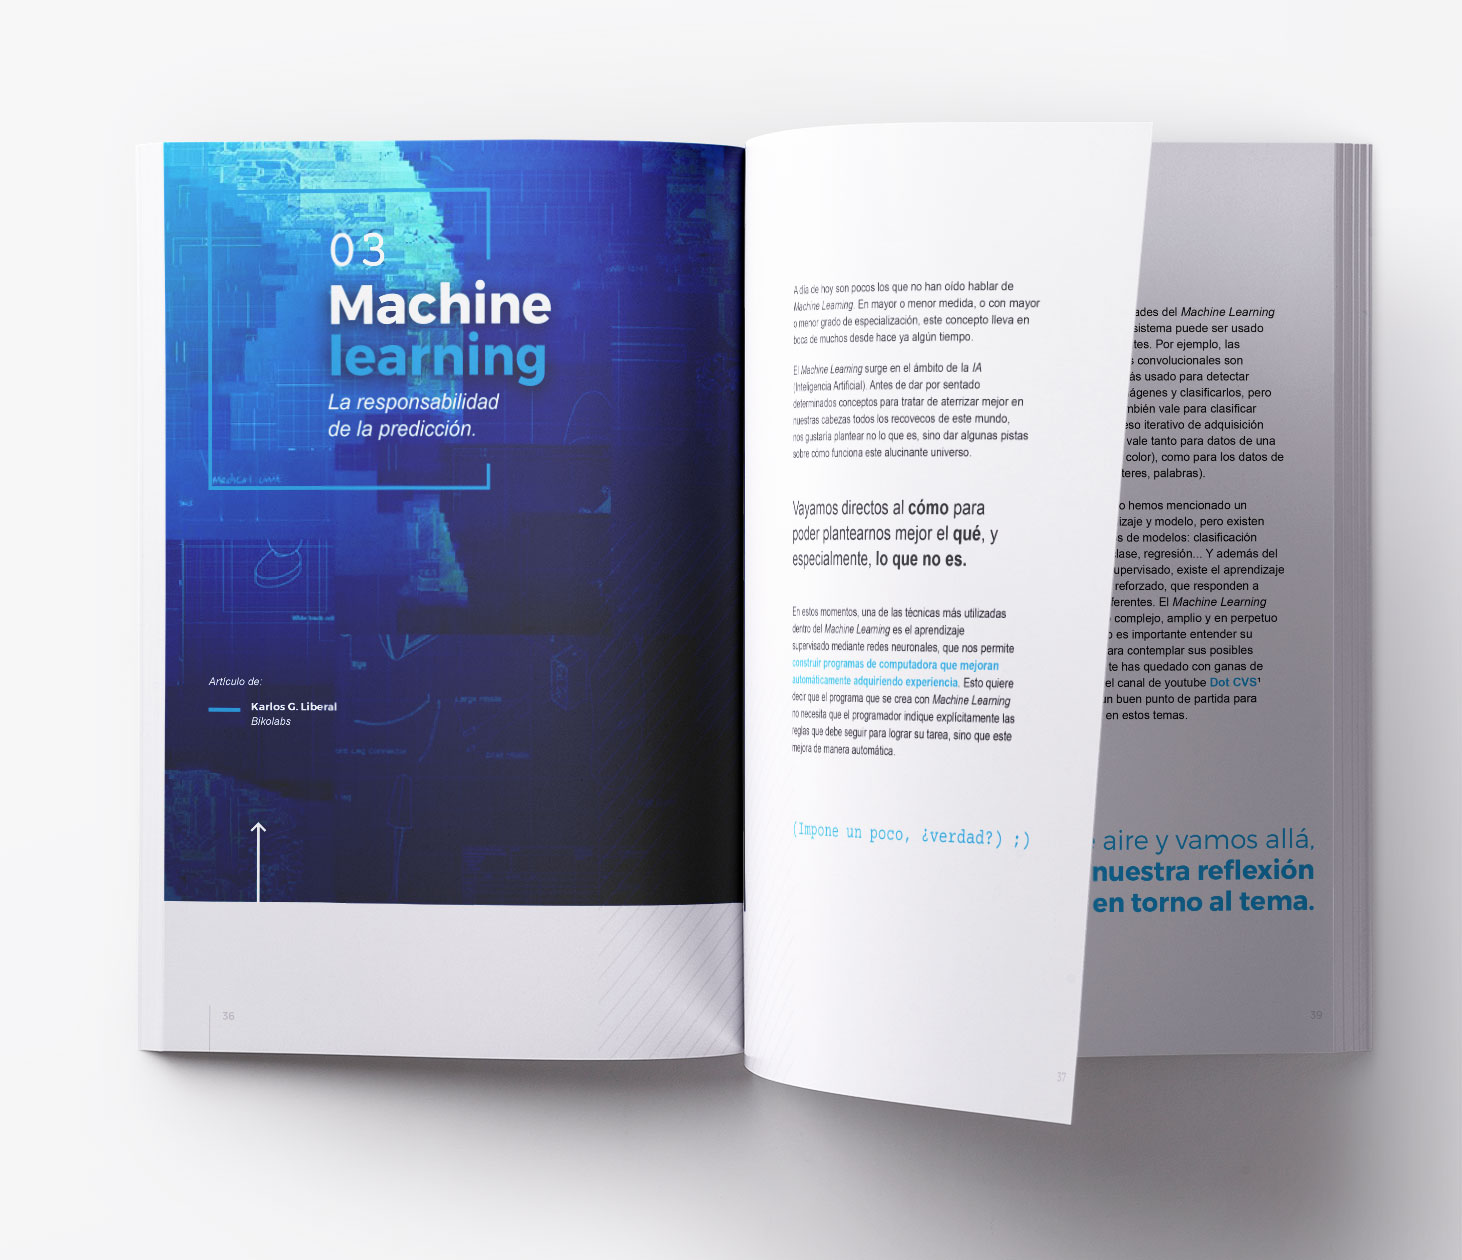
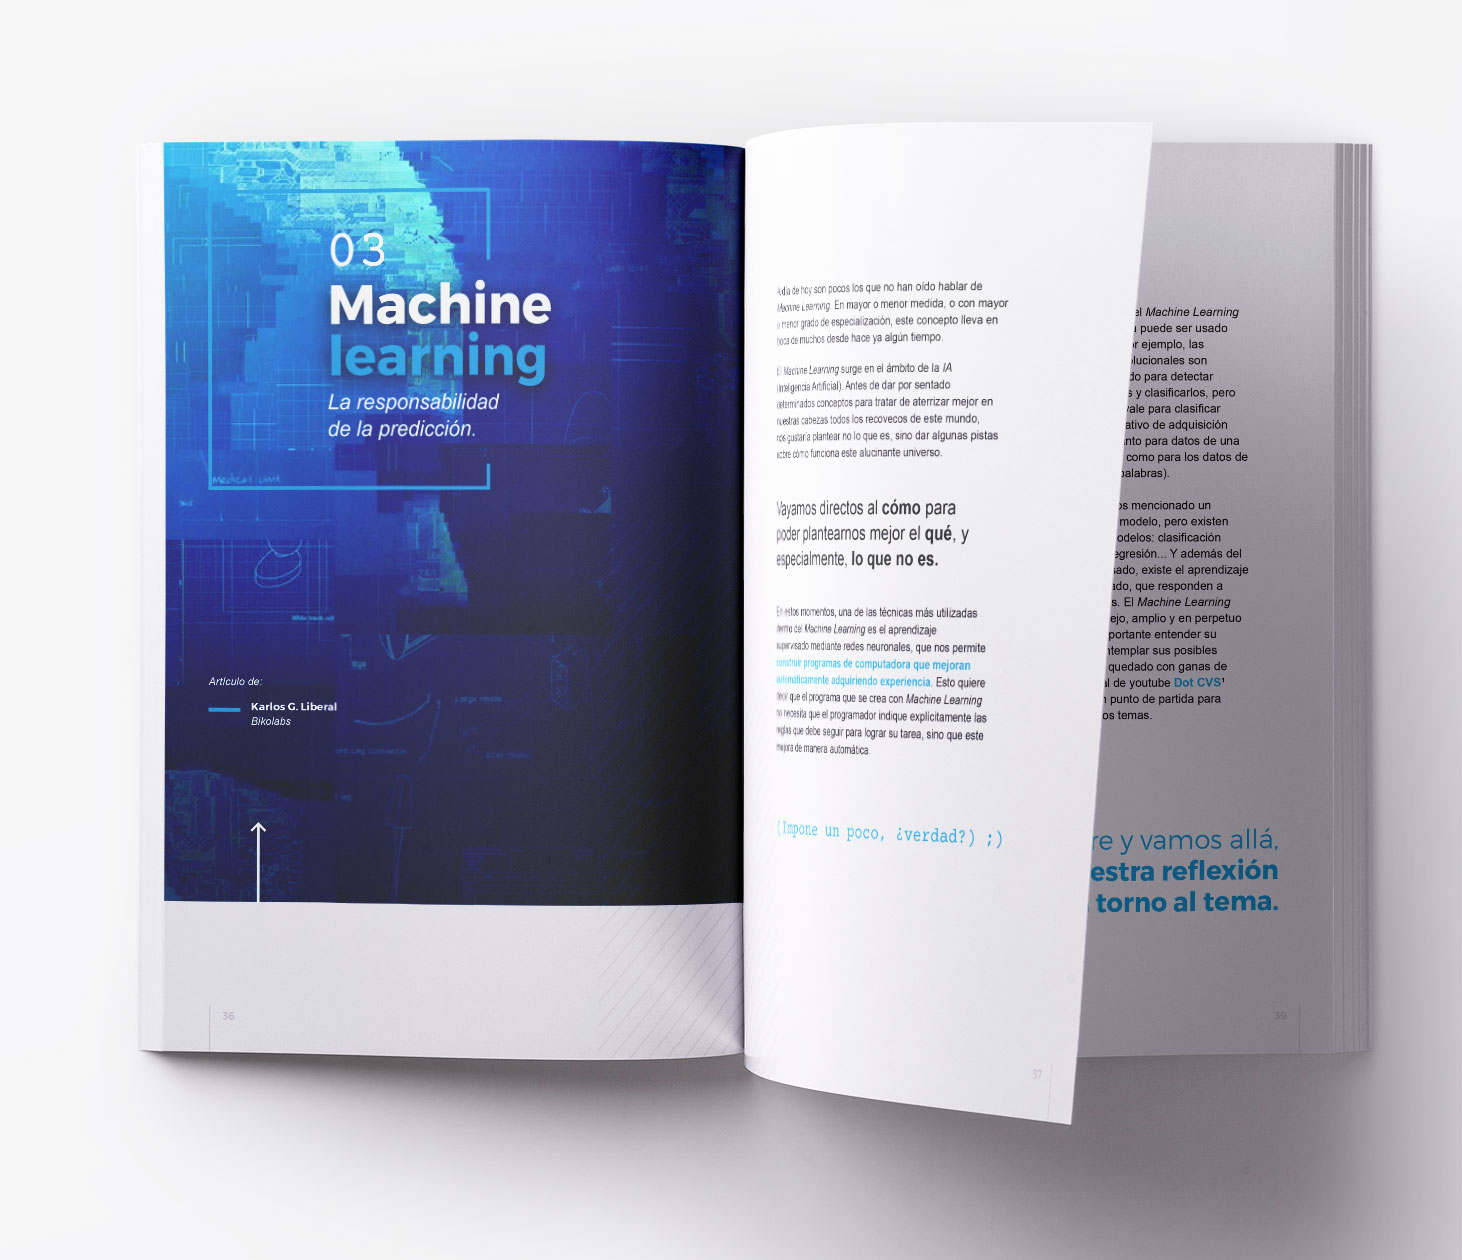
imagen y ajustes en tamaño de texto

diff --git a/src/assets/scss/07_pages/_pages.insight.scss b/src/assets/scss/07_pages/_pages.insight.scss
@@ -91,10 +91,5 @@
     }
   }
 
-  .c-line-list {
 
-    li {
-      @include typi(large);
-    }
-  }
 }
